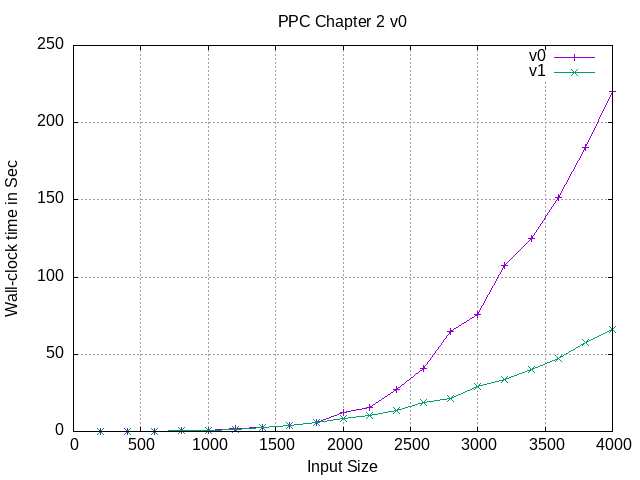
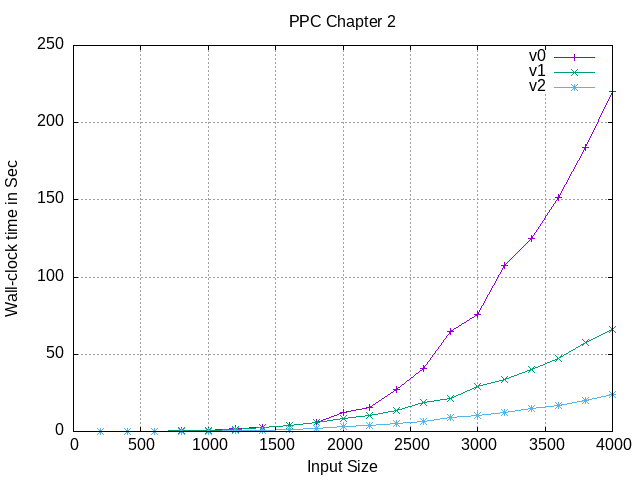
Implemented v2 (Pipelining Optimization) Generated benchmark data for elapsed time and useful ops Generated graphs for elapsed time and useful ops

diff --git a/chapter_2_case_study/v2/step.cc b/chapter_2_case_study/v2/step.cc
@@ -1,0 +1,88 @@
+#include <limits>
+#include <cstdlib>
+#include <vector>
+#include <ostream>
+#include <iostream>
+
+void step(float* r, const float* d, int n);
+void print_grid(std::vector<float> grid, int rows, int cols);
+
+void step(float* r, const float* d, int n) {
+
+    //print_grid(d, n, n);
+
+    constexpr float infinity = std::numeric_limits<float>::infinity();
+    constexpr int pad = 4;
+
+    int padded_cols = (n + pad - 1) / pad;
+    padded_cols = padded_cols * pad;
+
+    // std::cout << infinity << std::endl;
+    // std::cout << n << std::endl;
+    // std::cout << padded_cols << "  ----"<< std::endl;
+
+    // Allocate memory for transpose
+    std::vector<float> padded_data(padded_cols * n, infinity);
+
+    std::vector<float> padded_transpose(padded_cols * n, infinity);
+
+    // print_grid(padded_data, n, padded_cols);
+
+    // print_grid(padded_transpose, n, padded_cols);
+
+
+    // Update Padded data and transpose
+    for (int i = 0; i < n; i++) {
+        for (int j = 0; j < n; j++) {
+            padded_data[i + j * padded_cols] = d[i + j * n];
+            padded_transpose[j + i * padded_cols] = d[i + j * n];
+        }
+    }
+
+    //print_grid(padded_data, n, padded_cols);
+
+    //print_grid(padded_transpose, n, padded_cols);
+
+    // Main computation loop
+    for (int i = 0; i < n; i++) {
+
+        for (int j = 0; j < n; j++) {
+
+            // We maintain 4(pad) min values
+            float min_values[pad];
+
+            // set infinity guard value
+            for (int m = 0; m < pad; m++) {
+                min_values[m] = infinity;
+            }
+
+            for (int k = 0; k < padded_cols; k = k+4) {
+
+                for (int m = 0; m < pad; m++) {
+                    float value = padded_data[k + m + i * padded_cols] + padded_transpose[k + m + j * padded_cols];
+                    min_values[m] = std::min(min_values[m], value);
+                }
+            }
+
+            // Set in result data for i, j
+            float min_ij = infinity;
+
+            for (int m = 0; m < pad; m++) {
+                min_ij = std::min(min_ij, min_values[m]);
+            }
+
+            r[j + i * n] = min_ij;
+        }
+    }
+}
+
+void print_grid(std::vector<float> grid, int rows, int cols) {
+
+    for (int i = 0; i < rows; i++) {
+        for (int j = 0; j < cols; j++) {
+            std::cout << grid[i + j * cols] << " ";
+        }
+        std::cout << std::endl;
+    }
+    std::cout << "##################" << std::endl;
+}
